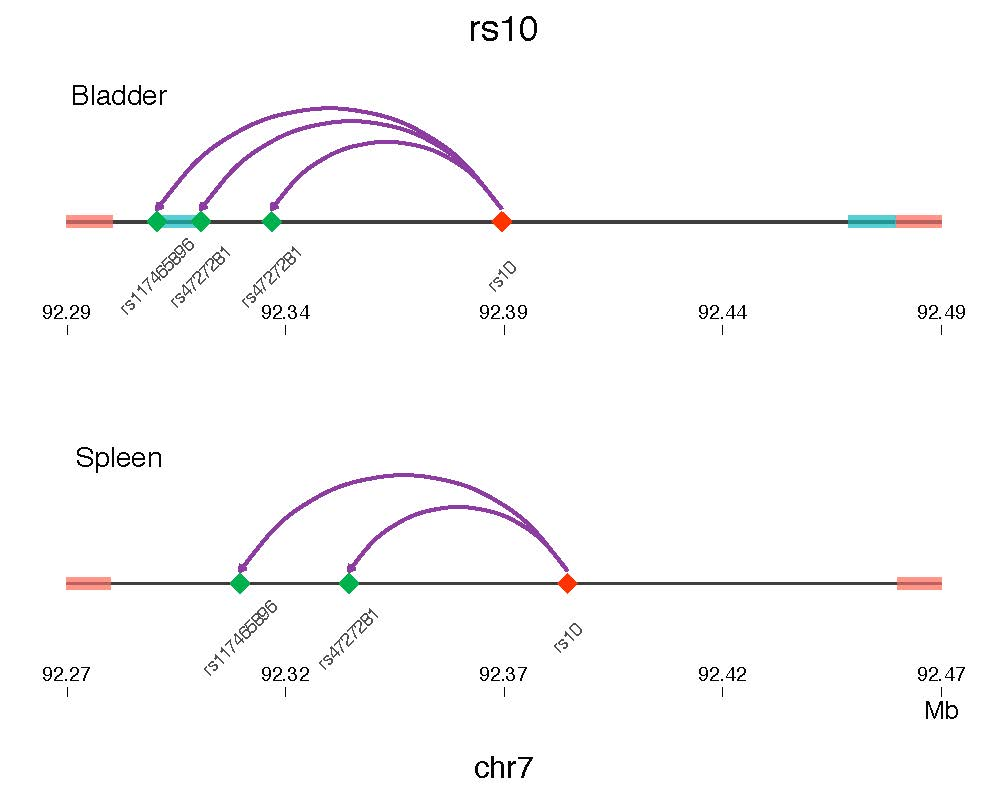
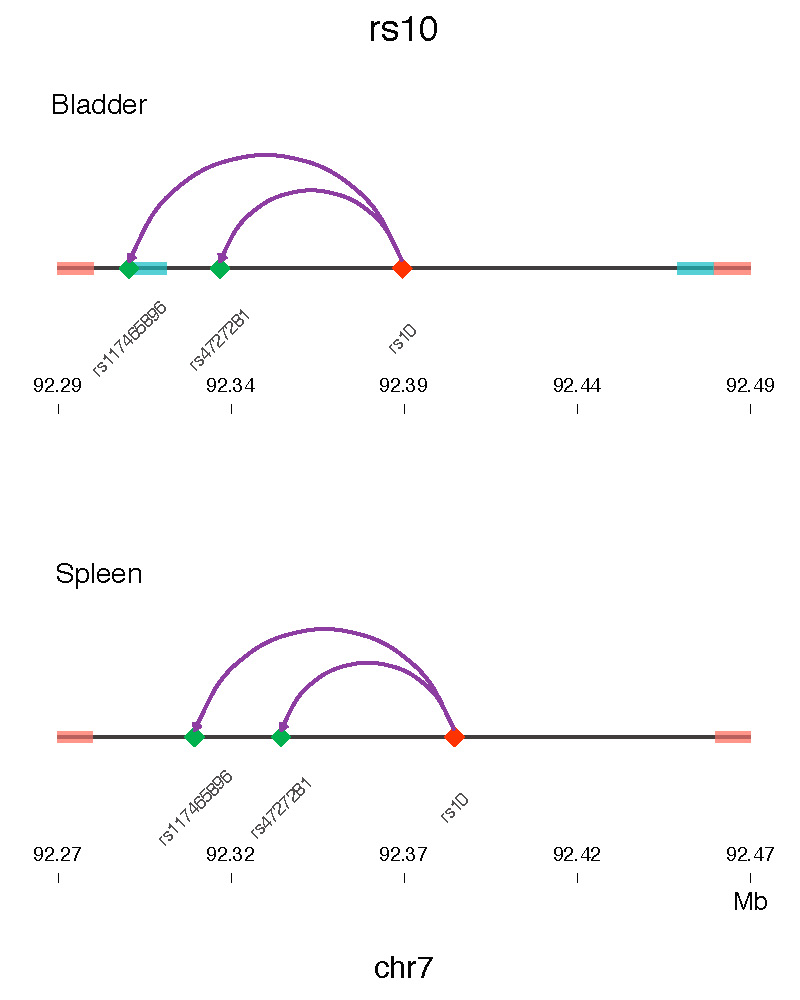
update

diff --git a/README.md b/README.md
@@ -20,11 +20,16 @@ Workflow.
 
 ### **4.1 For single SNP**
 
-#### ***query_snp(snp, input_type="rsID", eqtl_tissue="Whole_Blood")***
+#### ***query_snp(snp, input_type="rsID", eqtl_tissue="Whole_Blood", verbose=FALSE)***
 
 `query_snp` output the basic and functional information of a SNP.
 
-Input_type: "rsID", "hg19" or "hg38". If "hg19" or "hg38" was selected, the ***snp*** should be "chr22:19712094". (All genomic locations should be 1-based.) eqtl_tissue: Tissue ID of the tissue of GTEx.
+`input_type`: "rsID", "hg19" or "hg38". If "hg19" or "hg38" was selected, the ***snp*** should be "chr22:19712094". (All genomic locations should be 1-based.) `eqtl_tissue`: Tissue ID of the tissue of GTEx.
+
+`verbose`: Whether to show the intermediate process. Default is FALSE.
+
+
+
 
 ```{r}
 info_table <- query_snp("rs1891906")
@@ -120,13 +125,19 @@ get_snp_motif("chr1:109676139", "hg38")
 
 
 
-***plot_snp_motif(snp, input_type="rsID")***
+***plot_snp_motif(snp, input_type="rsID", tf='all')***
 
 ```
-plot_snp_motif(snp="rs1059196")
+plot_snp_motif(snp="rs10040658")
 ```
 
 ![](https://github.com/Liying1996/ViSNP/blob/master/example_figs/6_plot_snp_motif.jpg)
+
+```
+plot_snp_motif(snp="rs10040658", tf=c('AP2alpha', 'CHCH_01'))
+```
+
+![](https://github.com/Liying1996/ViSNP/blob/master/example_figs/6_plot_snp_motif2.jpg)
 
 #### ***get_loop_gene(snp, input_type="rsID",  output_type="core")***
 
@@ -146,10 +157,16 @@ loop_genes <- get_loop_gene("rs1059196", output_type="full")
 `show_cells` Optional. The number of cell types shown in the figure. Default is 3 (Top 3 cell types). The names of cell types are available as well.
 
 ```
-plot_loop_gene(snp="rs10", output_assembly='hg38', show_cells=c("VentricleLeft", "Caki2", "HepG2"))
+plot_loop_gene(snp="rs4942486", output_assembly='hg38', show_cells=c("VentricleLeft", "Caki2", "HepG2"))
 ```
 
 ![](https://github.com/Liying1996/ViSNP/blob/master/example_figs/11_plot_loop_gene.jpg)
+
+```
+plot_loop_gene(snp="rs10040658", output_assembly='hg38', show_cells=c("GM12878", "A549"))
+```
+
+![](https://github.com/Liying1996/ViSNP/blob/master/example_figs/11_plot_loop_gene2.jpg)
 
 #### ***get_loop_snp(snp, input_type="rsID",  output_type="core")***
 
@@ -171,7 +188,15 @@ loop_snps <- get_loop_snp("rs1059196")
 `show_cells` Optional. The number of cell types shown in the figure. Default is 3 (Top 3 cell types). The names of cell types are available as well.
 
 ```
- plot_loop_snp(snp=”rs10“, pop = pop, show_cells = c("Ventricle_Right", "Spleen"))
+plot_loop_snp(snp='rs10040658', pop = 'AFR', show_cells = c("GM12878", "Lung", "Caki2"))
+
+
+```
+
+![](https://github.com/Liying1996/ViSNP/blob/master/example_figs/11_plot_loop_snp2.jpg)
+
+```
+plot_loop_snp(snp='rs10', pop = 'AFR', show_cells = c("Bladder", "Spleen"))
 ```
 
 ![](https://github.com/Liying1996/ViSNP/blob/master/example_figs/11_plot_loop_snp.jpg)
@@ -258,12 +283,27 @@ plot_snp_circos(snp_info_table=info_table, window_size = 1e5, savefile="~/test/c
 
 ![](https://github.com/Liying1996/ViSNP/blob/master/example_figs/9_circos.png)
 
-***plot_snp_network(snp, input_type = "rsID", colors="default")***
+```
+info_table <- query_snp("rs10040658")
+plot_snp_circos(snp_info_table=info_table, savefile="~/test/circos3.pdf")
+```
+
+![](https://github.com/Liying1996/ViSNP/blob/master/example_figs/9_circos2.jpg)
+
+
+
+***plot_snp_network(snp, input_type = "rsID", cells = "all", pop, tissue_type="Whole_Blood", colors="default")***
 
 `colors` Optional. Vectors with 6 colors. "default" is `brewer.pal(6, "Set1")`.
 
 ```
-plot_snp_network(snp="rs1059196")
+plot_snp_network(snp="rs10040658", pop='EAS', cells=c("A549", "K562", "Caki2", "GM12878", "LNCAP"))
+```
+
+![](https://github.com/Liying1996/ViSNP/blob/master/example_figs/12_plot_networks2.jpg)
+
+```
+plot_snp_network(snp="rs1059196", pop='EAS')
 ```
 
 ![](https://github.com/Liying1996/ViSNP/blob/master/example_figs/12_plot_networks.jpg)
